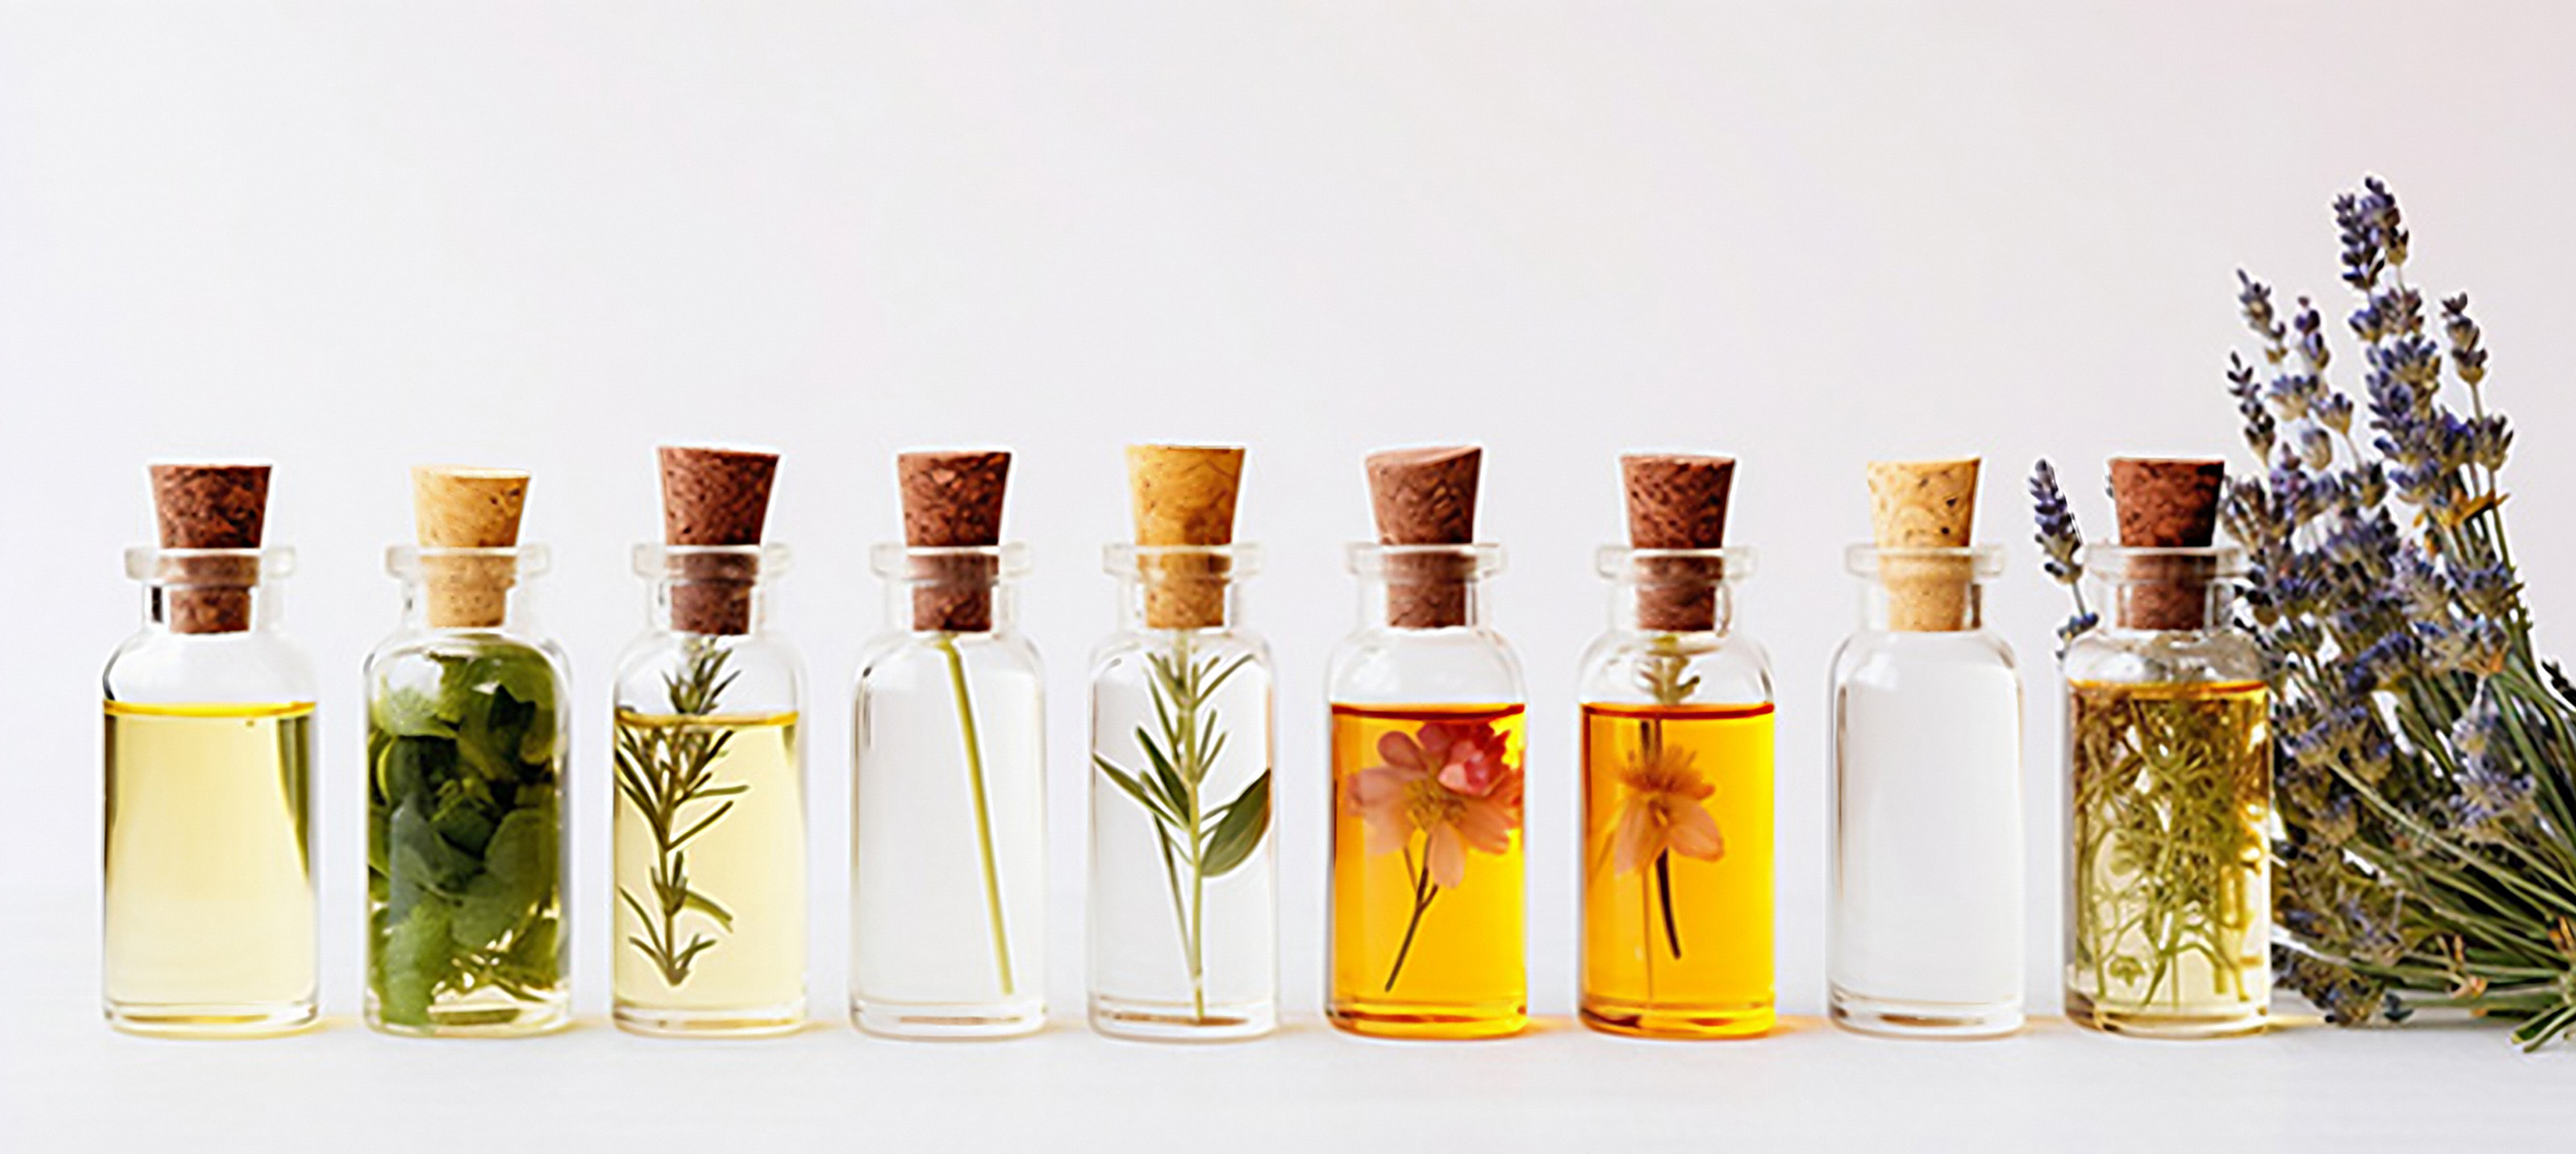
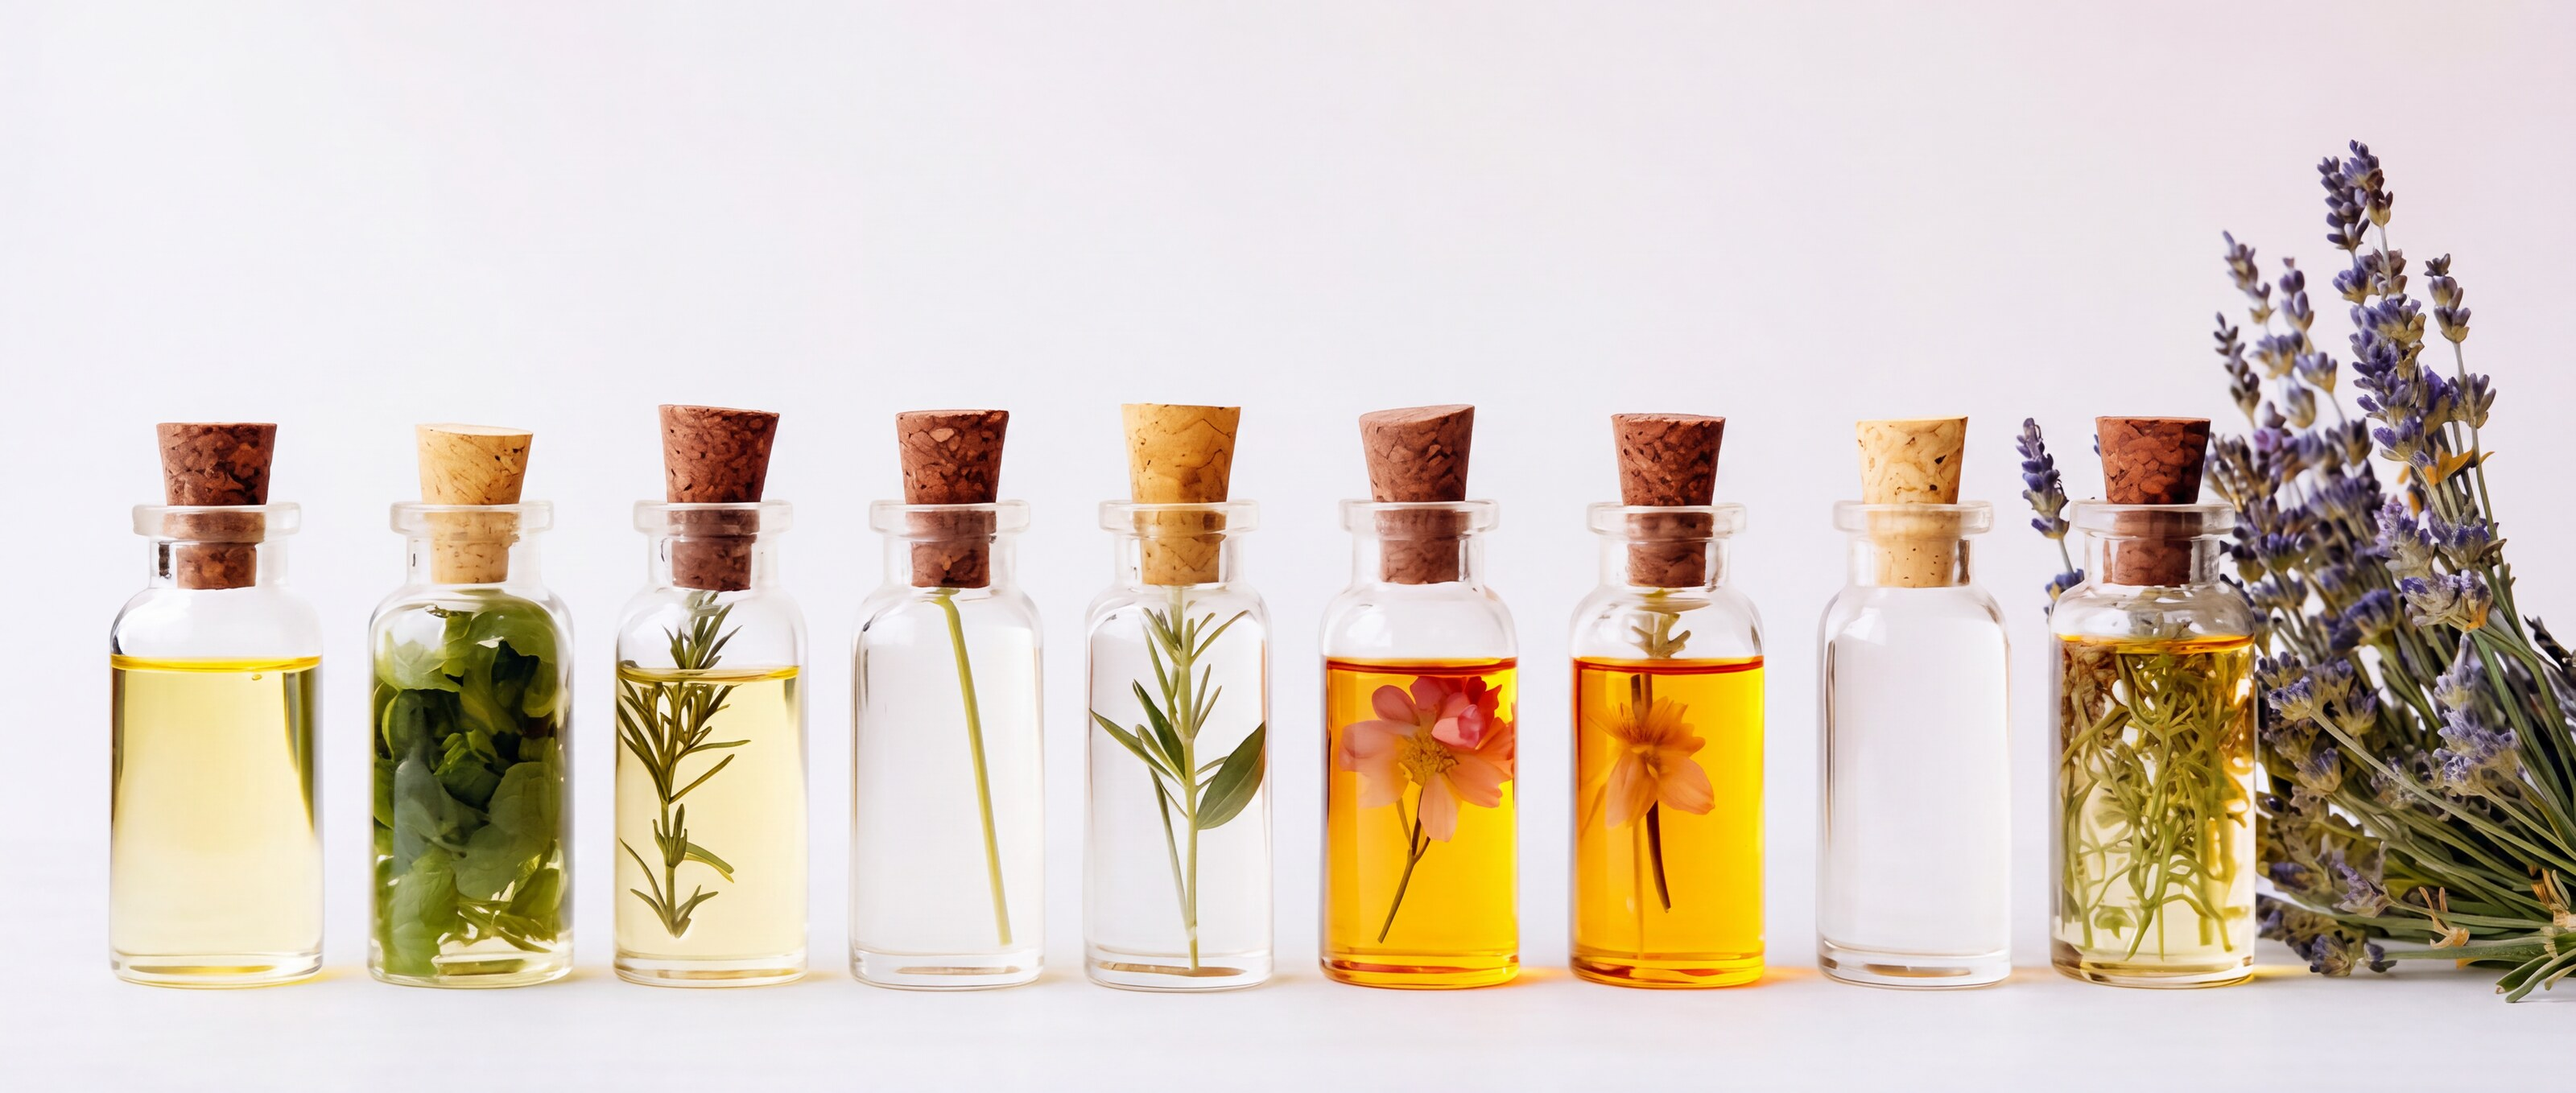
Sharpen Materia Olfattiva cover and improve slider text and link legibility (6b099a6e38e1b467e709ff7c)

Changed region(s): [[0.0312, 0.1237, 1.0, 0.9278], [0.3438, 0.3711, 0.4062, 0.5876], [0.5312, 0.3711, 0.5938, 0.5567]]

diff --git a/src/styles/global.css b/src/styles/global.css
@@ -139,9 +139,9 @@ img{
   inset:0;
   background:linear-gradient(
     180deg,
-    rgba(0,0,0,.10),
-    rgba(0,0,0,.06) 45%,
-    rgba(0,0,0,.74)
+    rgba(0,0,0,.14),
+    rgba(0,0,0,.12) 40%,
+    rgba(0,0,0,.82)
   )
 }
 
@@ -179,10 +179,34 @@ img{
   text-transform:uppercase;
   margin:0 0 28px;
   max-width:1150px;
-  font-weight:500
+  font-weight:500;
+  text-shadow:0 2px 18px rgba(0,0,0,.45)
 }
 
-.slide-bottom a{pointer-events:auto}
+/* "Vai all'evento": outlined button, set apart from the date/place text */
+.slide-bottom a{
+  pointer-events:auto;
+  align-self:center;
+  display:inline-flex;
+  align-items:center;
+  gap:8px;
+  padding:10px 18px;
+  border:1px solid #fff;
+  background:rgba(255,255,255,.08);
+  color:#fff;
+  font-weight:600;
+  letter-spacing:.08em;
+  text-decoration:none;
+  text-shadow:none;
+  backdrop-filter:blur(2px);
+  transition:background .2s ease,color .2s ease
+}
+
+.slide-bottom a:hover,
+.slide-bottom a:focus-visible{
+  background:#fff;
+  color:#080808
+}
 
 .slide-bottom{
   display:grid;
@@ -191,7 +215,9 @@ img{
   border-top:1px solid rgba(255,255,255,.7);
   padding-top:14px;
   font-size:12px;
-  text-transform:uppercase
+  text-transform:uppercase;
+  align-items:center;
+  text-shadow:0 1px 6px rgba(0,0,0,.5)
 }
 
 .slider-ui{
@@ -753,6 +779,11 @@ img{
   .slide-bottom{
     grid-template-columns:1fr;
     gap:8px
+  }
+
+  .slide-bottom a{
+    justify-self:start;
+    margin-top:6px
   }
 
   .slider-ui{

diff --git a/src/content/events/materia-olfattiva.md b/src/content/events/materia-olfattiva.md
@@ -7,6 +7,7 @@ location: "Studio Orma"
 city: "Roma"
 featured: true
 cover: /images/materia-olfattiva.jpg
+homeCover: /images/materia-olfattiva-home.jpg
 titleFont: default
 excerpt: "Introduzione alla profumeria: dalle materie prime alla composizione. Di Alessandro Baldacci."
 price: "35 €"
